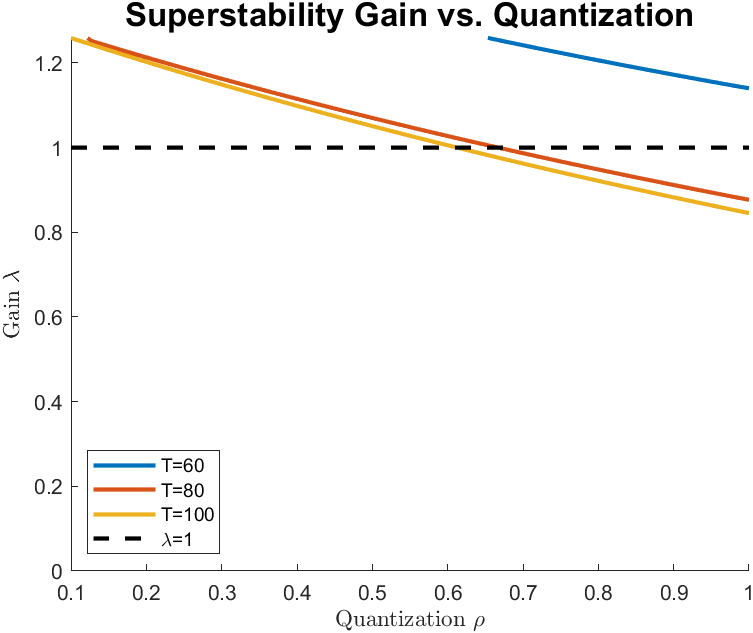
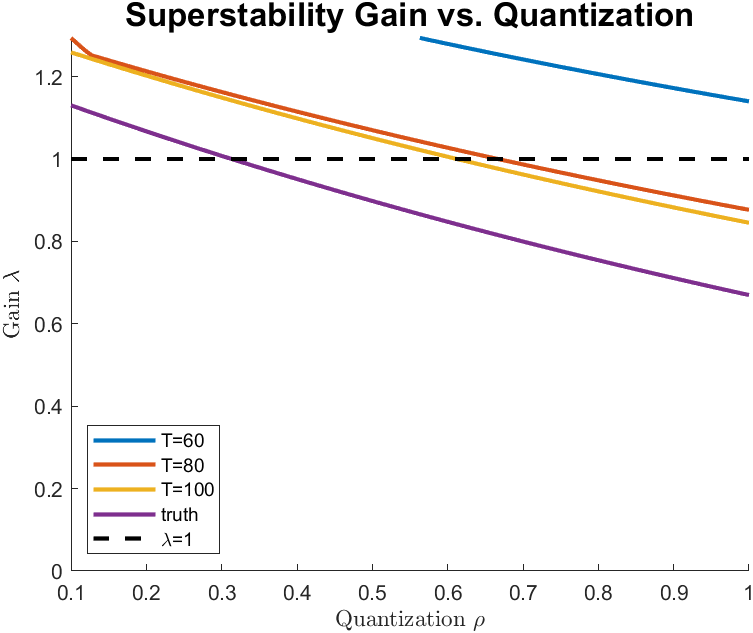
example 1 superstabilization on ground truth

diff --git a/experiments/dd_quantized_func_ss_2.m b/experiments/dd_quantized_func_ss_2.m
@@ -13,6 +13,7 @@ m = 2;
 A0 = [-0.130044145839941,-0.397448693430848,0.202989496636112;-0.397448693430849,-0.499993279171062,0.299032700527649;0.202989496636112,0.299032700527648,-0.526192583398200];
 B0 = [0.217864167978751,1.279977824637024;0.359211320717385,0;-1.155284985838844,0];
 
+sys = struct('A', A0, 'B', B0);
 % ss = drss(n, n, m);
 % A0 = ss.A + 0.1*eye(n);
 % ss.A = ss.A*1.4;
@@ -85,7 +86,8 @@ lam_list = zeros(Nrho, 1);
 for i = 1:length(rho_list)
 
 % out = SS_quantized(sim, rho);
-    out = SS_quantized_sign(sim, rho_list(i));
+%     out = SS_quantized_sign(sim, rho_list(i));
+    out = SS_quantized_clean_aff(rho_list(i), sys);
     if out.problem
         lam_list(i) = inf;
     else
@@ -106,9 +108,10 @@ hold on
 plot(rho_list, lam_list_60', 'linewidth', 2)
 plot(rho_list, lam_list_80', 'linewidth', 2)
 plot(rho_list, lam_list_100', 'linewidth', 2)
+plot(rho_list, lam_list_clean', 'linewidth', 2)
 plot(xlim, [1, 1], '--k','linewidth', 2)
-ylim([0, max(lam_list)])
-legend({'T=60', 'T=80', 'T=100', '\lambda=1'}, 'location', 'southwest')
+ylim([0, max(lam_list_80)])
+legend({'T=60', 'T=80', 'T=100', 'truth', '\lambda=1'}, 'location', 'southwest')
 xlabel('Quantization $\rho$', 'interpreter', 'latex')
 ylabel('Gain $\lambda$', 'interpreter', 'latex')
 title('Superstability Gain vs. Quantization', 'FontSize', 16)

diff --git a/testing/ddc/ddc_quantized_func_ss_2_aarc.m b/testing/ddc/ddc_quantized_func_ss_2_aarc.m
@@ -12,6 +12,7 @@ m = 2;
 
 A0 = [-0.130044145839941,-0.397448693430848,0.202989496636112;-0.397448693430849,-0.499993279171062,0.299032700527649;0.202989496636112,0.299032700527648,-0.526192583398200];
 B0 = [0.217864167978751,1.279977824637024;0.359211320717385,0;-1.155284985838844,0];
+ss = struct('A', A0, 'B', B0);
 
 % ss = drss(n, n, m);
 % A0 = ss.A + 0.1*eye(n);
@@ -80,8 +81,10 @@ sim.Sb =  Sb;
 % rho = 0.20801; %ESS: T = 100
 
 %aarc formulation
-rho = 0.9500; % SS: T = 100
+% rho = 0.9500; % SS: T = 100
 % rho = 0.7723; %ESS: T=100;
+
+% rho = 0.1422; %ESS clean
 
 % 
 % Nrho = 100;
@@ -90,10 +93,12 @@ rho = 0.9500; % SS: T = 100
 % % rho = 0.3;
 % for i = 1:length(rho_list)
 
+out = ESS_quantized_clean_aff(rho, sys);
+
 % out = SS_quantized_sign(sim, rho);
 % out = ESS_quantized_sign(sim, rho);
 % out = ESS_quantized(sim, rho);
-out = SS_quantized(sim, rho);
+% out = SS_quantized(sim, rho);
 %     out = SS_quantized_sign(sim, rho_list(i));
 %     if out.problem
 %         lam_list(i) = inf;

diff --git a/class/SS_quantized_clean_aff.m b/class/SS_quantized_clean_aff.m
@@ -18,7 +18,8 @@ q = (1-rho)./(1+rho);
 %declare the variables
 
 %design parameters
-v = sdpvar(n, 1);
+% v = sdpvar(n, 1);
+v = ones(n, 1);
 S = sdpvar(m, n);
 
 Y = diag(v);
@@ -34,7 +35,7 @@ signs = 2*ff2n(m)-1;
 
 %start up constraint generation
 delta = 1e-3;
-lam_cons = [sum(M, 2) <= (v - delta)];
+lam_cons = [sum(M, 2) <= (lambda - delta)];
 
 %iterate over all sign patterns
 I = eye(m);
@@ -52,8 +53,8 @@ end
 %data processing
 
 
-v_con = [v>=delta; lambda >= v; v==1];
-cons = [v_con:'v';  lam_cons:'objective'; ...
+% v_con = [v>=delta; v == lambda];
+cons = [lam_cons:'objective'; ...
     ss_cons:'M bounding'];
 
 %solve the program
@@ -69,7 +70,7 @@ if sol.problem ==0
     out.S = value(S);
     out.v = value(v);
     out.K = out.S*diag(1./out.v);
-    out.obj = 0;
+    out.obj = value(lambda);
     
     out.M0 = value(M0);
 %     out.Ma = cellfun(@(m) value(m), Ma, 'UniformOutput', false);

diff --git a/testing/clean/extended_super_clean_test.m b/testing/clean/extended_super_clean_test.m
@@ -5,7 +5,7 @@ m = 2;
 A0 = 0.9*eye(3)+ 0.2*ones(3);
 % A0(3, 2) = 2;
 B0 = [1 0; 0 1; 0 1];
-ss = struct('A', A0, 'B', B0)
+ss = struct('A', A0, 'B', B0);
 % ss.A = 1.5*ss.A;
 
 v = sdpvar(n, 1);
